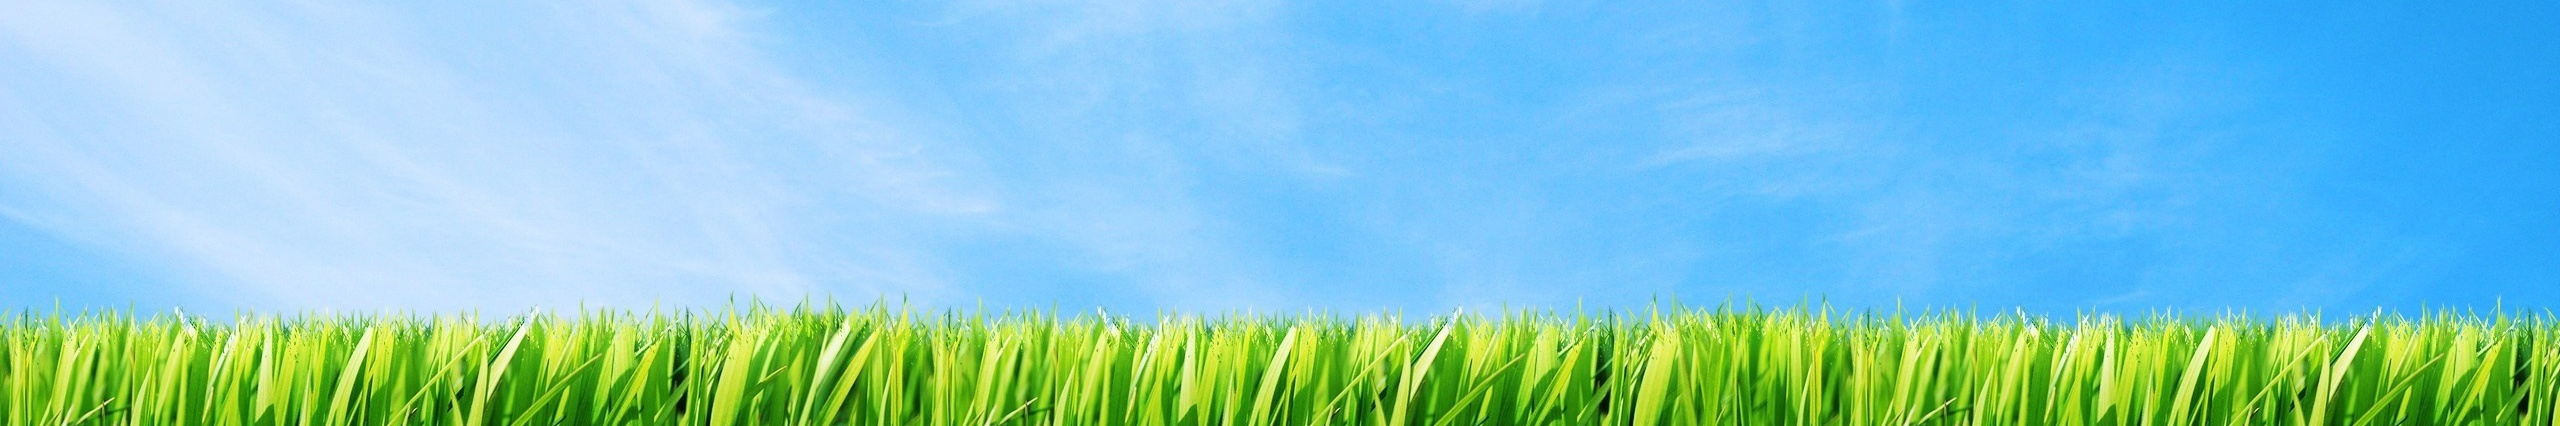
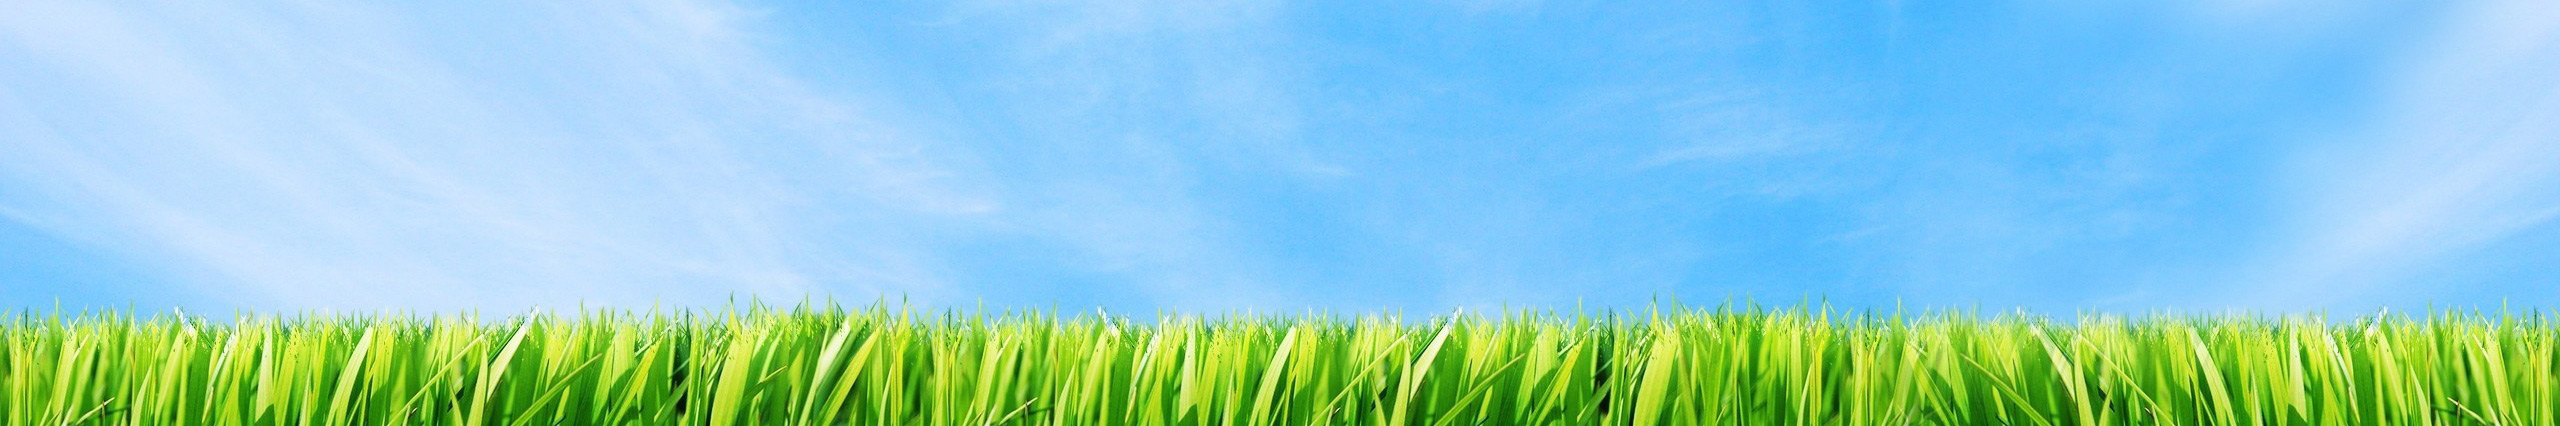
пофиксил бекграунд слайдера и залил тестовый логотип

Changed region(s): [[0.7188, 0.0, 1.0, 1.0]]

diff --git a/web/assets/js/server_client.js b/web/assets/js/server_client.js
@@ -21,7 +21,7 @@ function __GET_AD(adplace_id) {
 
 //класс для работы с сервером
 var __PromoMasterClient = {
-    connectServerUrl: "http://www.promomaster.net:1337", //адрес подключения к серверу
+    connectServerUrl: "http://191.235.147.26:1337", //адрес подключения к серверу
 
     //прорисовка баннера
     drawBanner: function (banner, adplace_id) {
